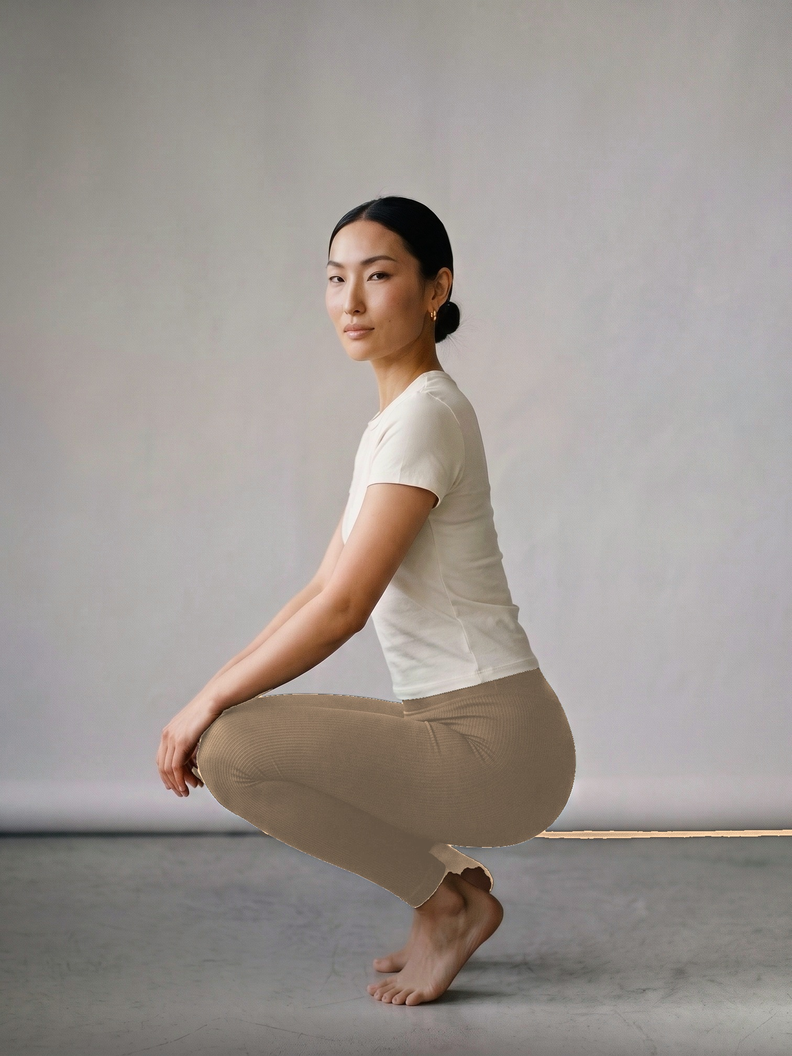
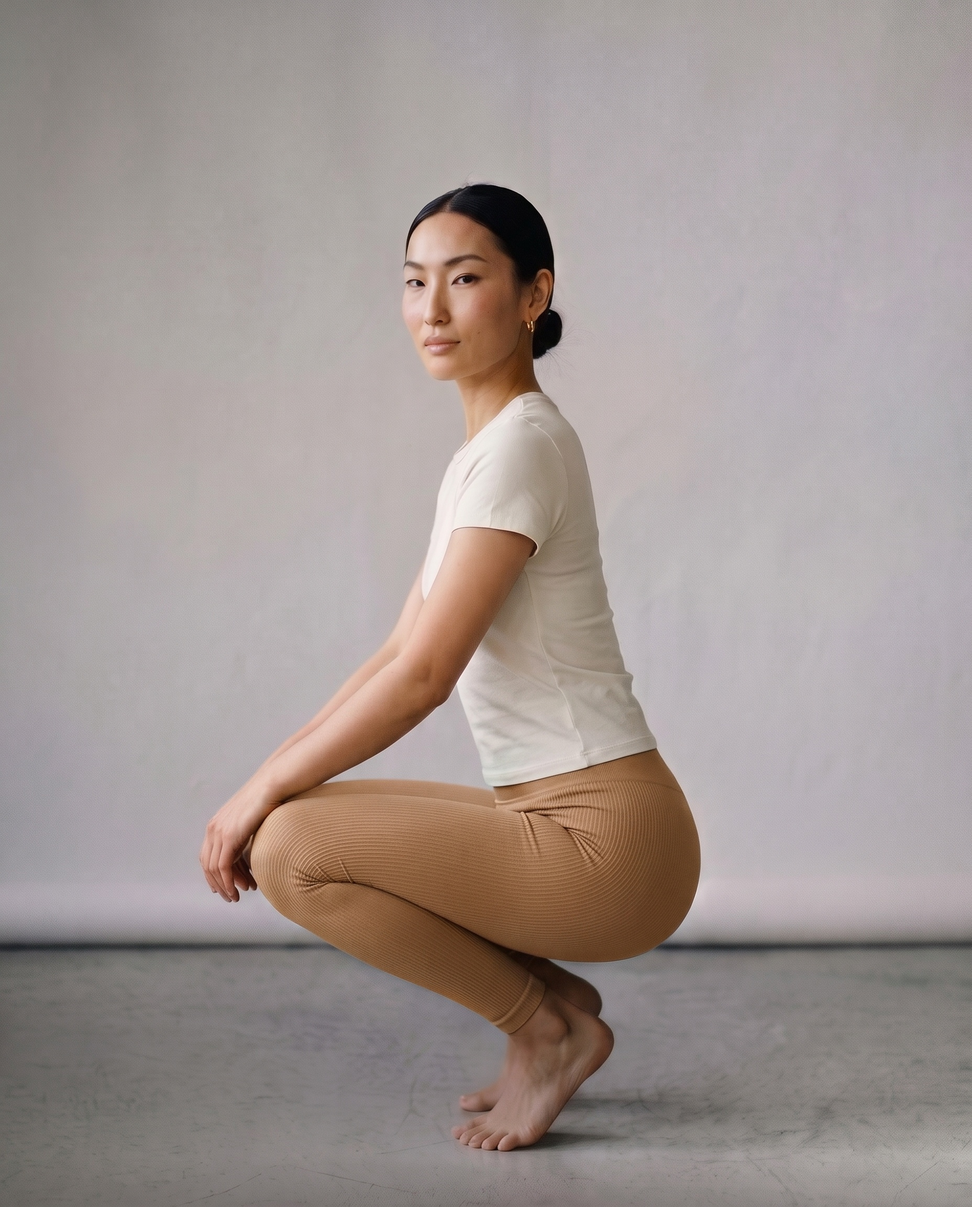
Squat-Proof Legging v46: Sand = Gemini-rendered knit on the Black photo (identical outside the garment, verified); detail shot re-based with the tee tucked and the waistband over it; products.js?v=46
Claude-Session: https://claude.ai/code/session_01TH6XjwVeudERd93hT9p8gq

diff --git a/assets/products.js b/assets/products.js
@@ -80,7 +80,7 @@ window.COVERLINE_PRODUCTS = [
     care: "Seamless stretch knit. Machine wash cold, hang or lay flat to dry. Skip the tumble dryer — it\'s what kills the stretch in every pair you\'ve owned before.",
     colors: [
       { key: "black", label: "Black", hex: "#25272a", image: "/assets/product-images/legging-black.jpg?v=39", images: ["/assets/product-images/legging-black.jpg?v=39", "/assets/product-images/legging-black-proof.jpg?v=39", "/assets/product-images/legging-black-back.jpg?v=39", "/assets/product-images/legging-black-detail.jpg?v=46"] },
-      { key: "nude", label: "Sand", hex: "#c9a888", image: "/assets/product-images/legging-nude.jpg?v=46", images: ["/assets/product-images/legging-nude.jpg?v=46", "/assets/product-images/legging-nude-proof.jpg?v=45", "/assets/product-images/legging-nude-back.jpg?v=45", "/assets/product-images/legging-nude-detail.jpg?v=46"] }
+      { key: "nude", label: "Sand", hex: "#c9a888", image: "/assets/product-images/legging-nude.jpg?v=46", images: ["/assets/product-images/legging-nude.jpg?v=46", "/assets/product-images/legging-nude-proof.jpg?v=46", "/assets/product-images/legging-nude-back.jpg?v=46", "/assets/product-images/legging-nude-detail.jpg?v=46"] }
     ],
     image: "/assets/product-images/legging-black.jpg?v=39",
     swatch: function(){ return '<rect width="300" height="400" fill="var(--paper-raised)"/><path d="M0,240 C 100,300 200,200 300,260 L300,400 L0,400 Z" fill="var(--accent-2)" opacity=".5"/><path d="M0,150 C 110,90 190,210 300,160" fill="none" stroke="var(--accent)" stroke-width="1"/>'; }
